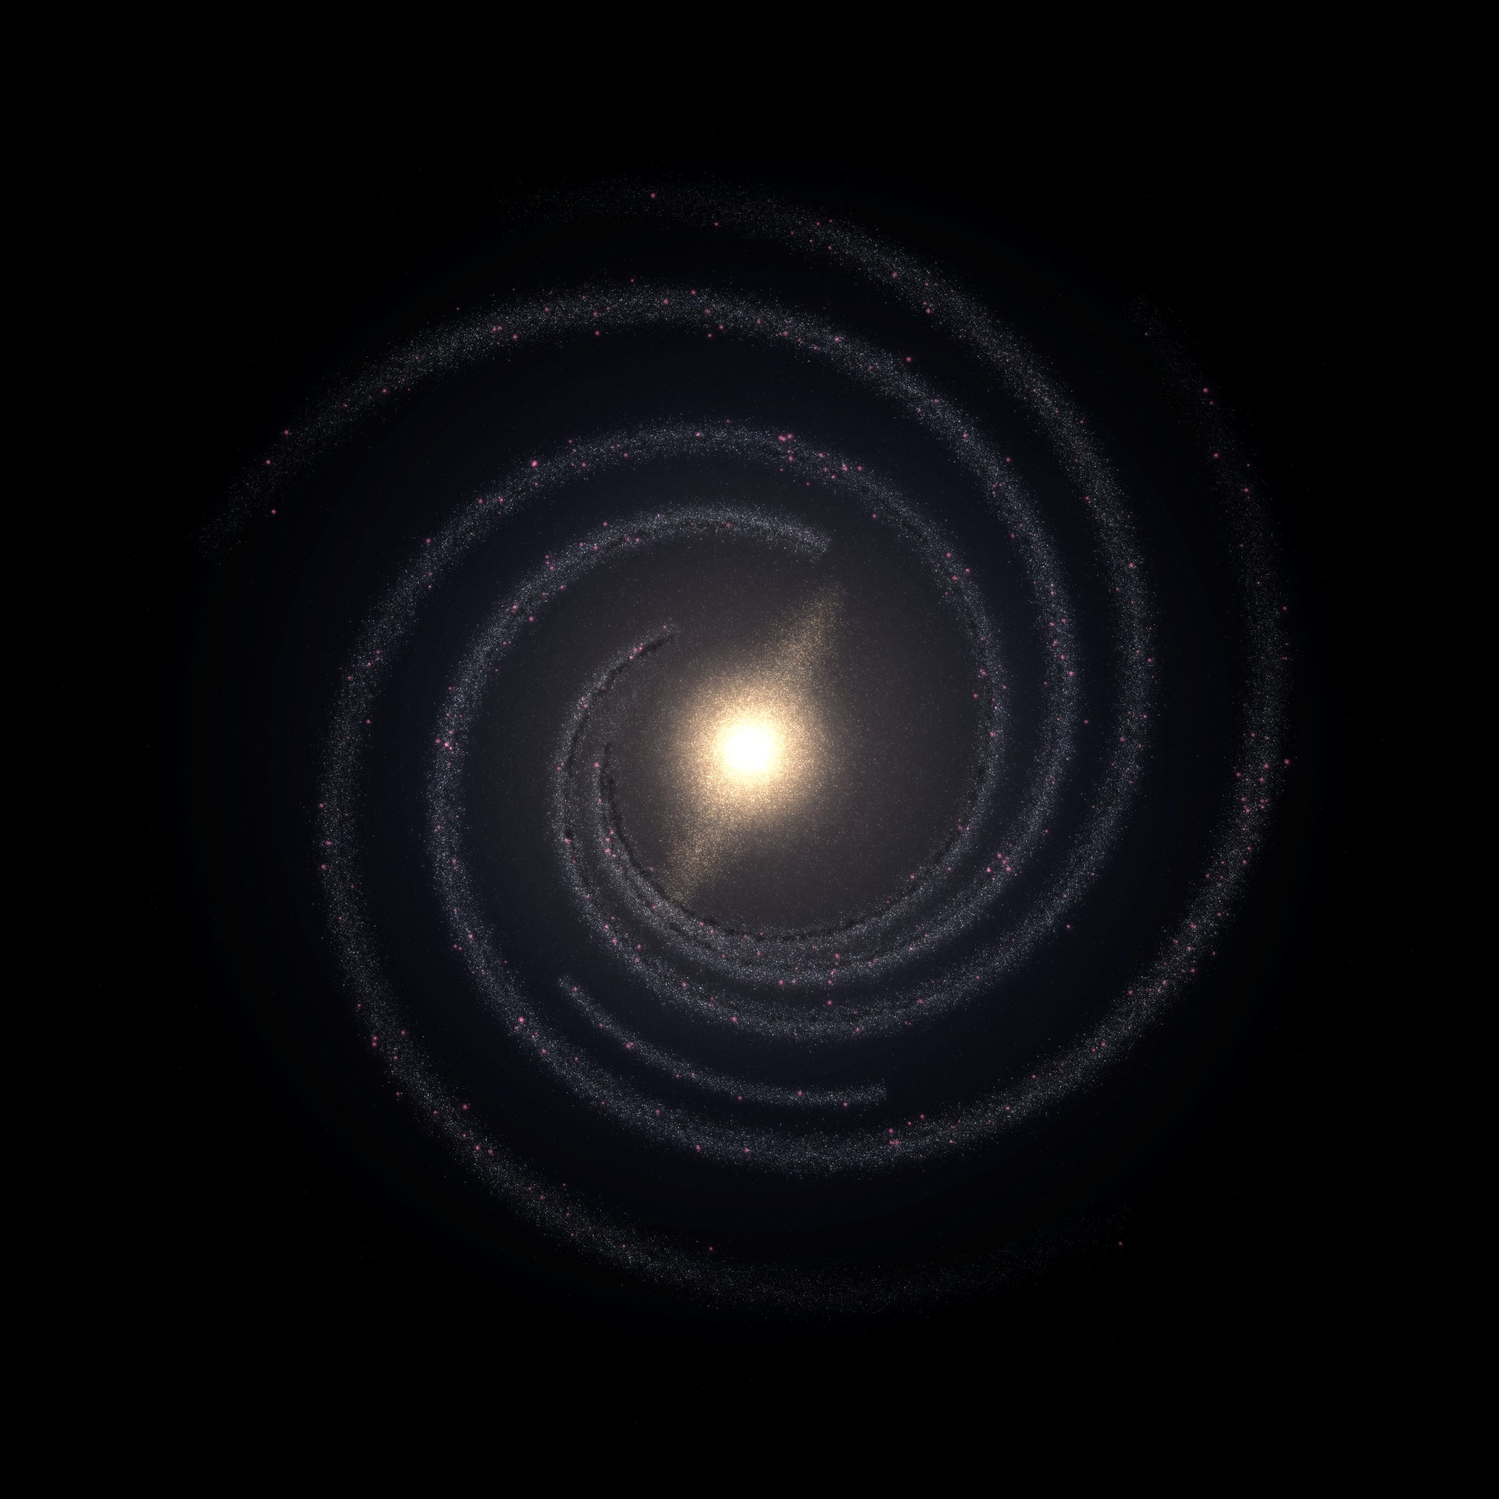
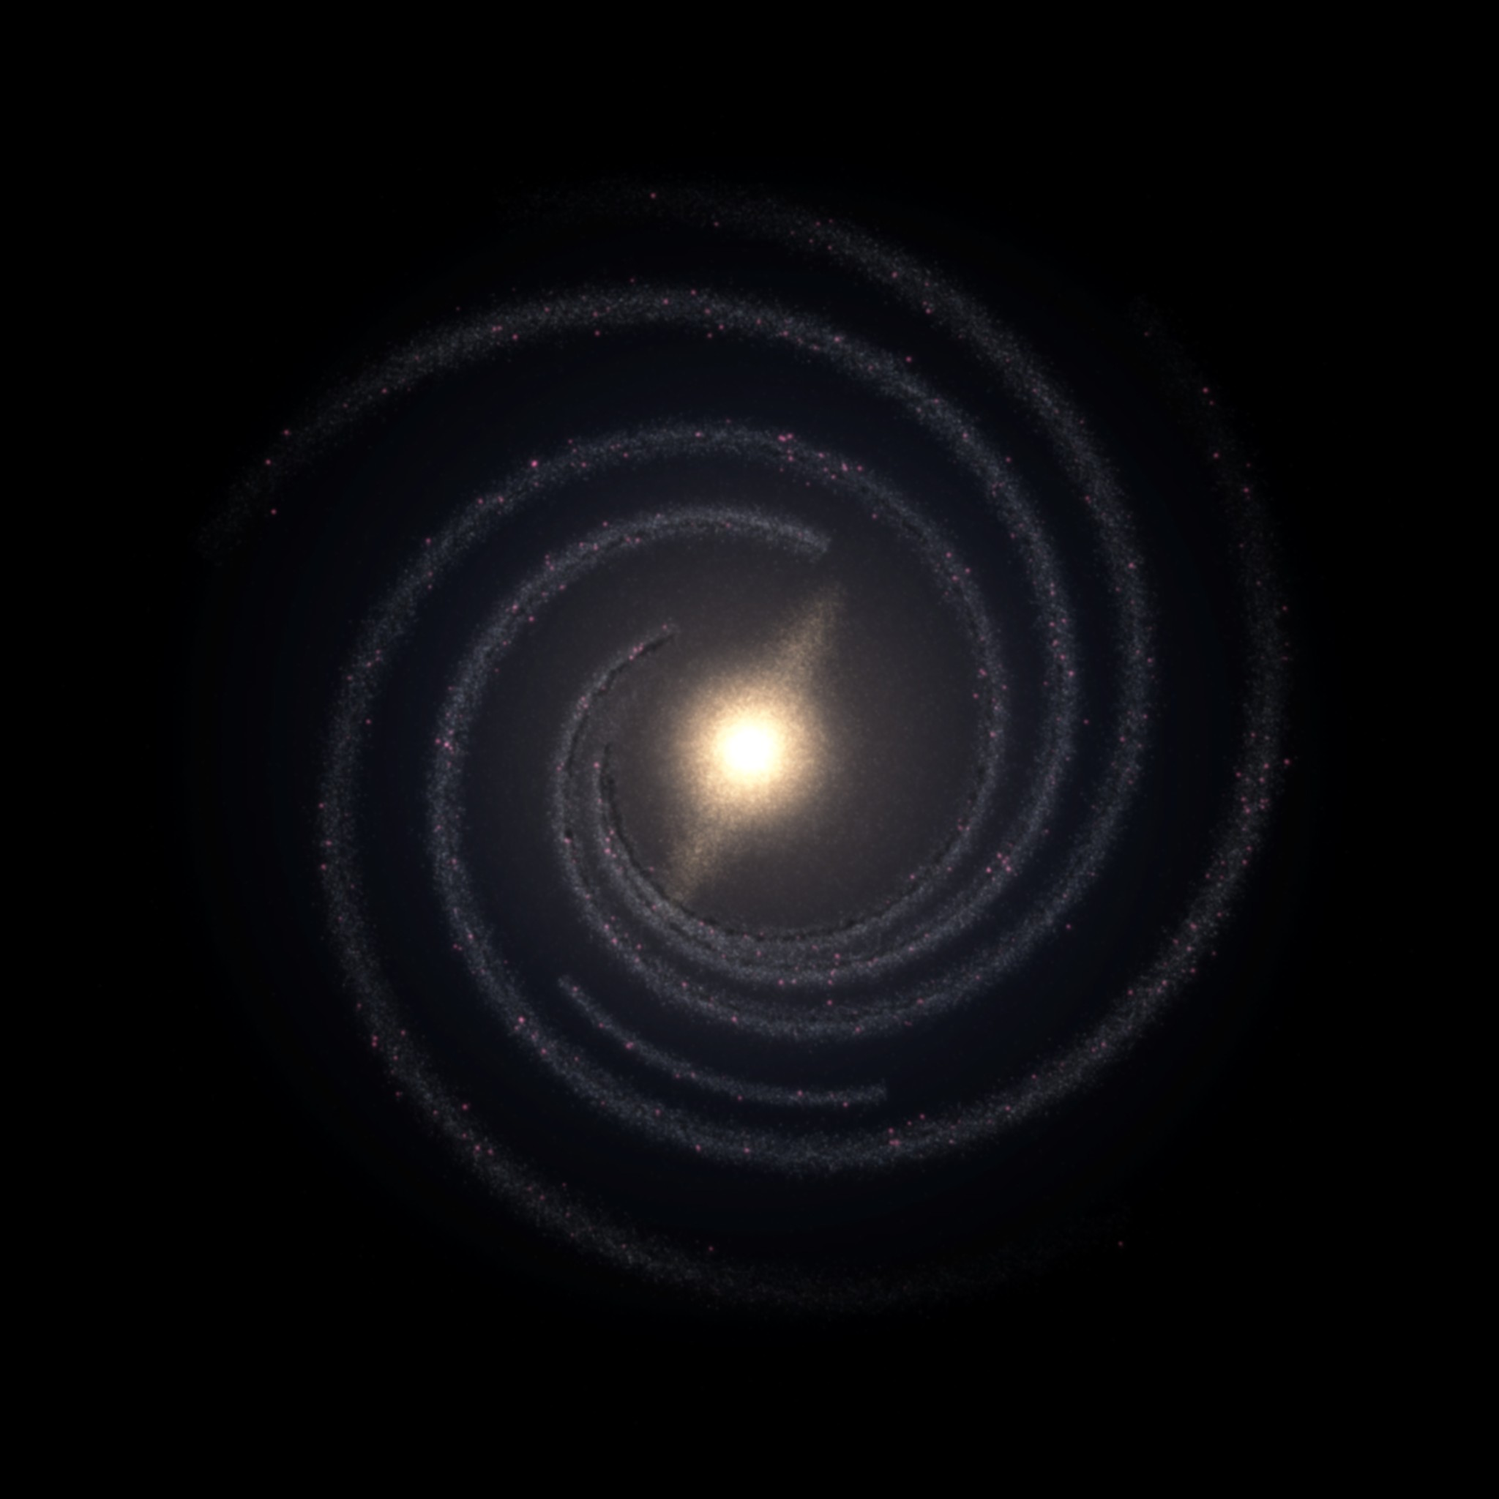
Solar System: the same 3D Milky Way (band with dust lane), no lens flattening; both views meet in perspective at 6 ly
Claude-Session: https://claude.ai/code/session_014WnyXLLNwiX3pgGtFfkb8B

diff --git a/solar-system/index.html b/solar-system/index.html
@@ -863,6 +863,113 @@ const haze = new THREE.Mesh(new THREE.PlaneGeometry(2, 2), new THREE.ShaderMater
       gl_FragColor = vec4(mix(vec3(150.0, 160.0, 220.0), vec3(175.0, 170.0, 215.0), t) / 255.0, uA * mix(0.55, 1.45, t)); }`,
   transparent: true, depthTest: false, depthWrite: false }));
 haze.frustumCulled = false; haze.renderOrder = -3; skyScene.add(haze);
+// The Milky Way as a volume: the same 3D model and face-on picture the galaxy map uses (stars in a thin and a thick disc and a bulge,
+// with a thinner layer of dust), seen from wherever the camera really is. From here it is the band across the sky, dust lane and all;
+// the galaxy map carries on with the same picture as you pull out of the disc.
+const GALAXY_FS = `// The Milky Way as a volume, ray-marched per pixel. World frame of the galaxy map: Sgr A* at the origin, the disc's true midplane at z = 0,
+// light-years. Face-on light comes from the map's picture of the disc; the vertical structure and dust follow measurements:
+//   thin disc scale height 300 pc, thick disc 900 pc at ~6% of the local density, i.e. ~16% of the surface light (Bland-Hawthorn & Gerhard 2016)
+//   boxy/peanut bulge ~500 pc thick within ~1.5 kpc of the centre (Wegg & Gerhard 2013)
+//   dust: scale height 134 pc, scale length 0.28 R0 (Drimmel & Spergel 2001); 1 magnitude of V-band extinction per kpc at the Sun,
+//   reddening with the standard extinction curve (A_B : A_V : A_R ≈ 1.32 : 1 : 0.75)
+uniform sampler2D uGal;
+uniform vec3 uCam, uRight, uUp, uFwd;
+uniform vec2 uRes;
+uniform float uTanH, uOrtho, uHalfH, uExpo, uAlpha;
+const float GW = 62000.0, ZM = 9000.0, RSUN = 26989.0;
+const float H1 = 978.0, H2 = 2935.0, HB = 1630.0, HD = 437.0, RD = 7557.0, K0 = 2.83e-4;
+vec2 slab(vec3 ro, vec3 rd) {
+  if (abs(rd.z) < 1e-7) return abs(ro.z) < ZM ? vec2(-1e12, 1e12) : vec2(1.0, -1.0);
+  float a = (-ZM - ro.z) / rd.z, b = (ZM - ro.z) / rd.z; return vec2(min(a, b), max(a, b));
+}
+vec2 cyl(vec3 ro, vec3 rd) {
+  float A = dot(rd.xy, rd.xy), B = dot(ro.xy, rd.xy), C = dot(ro.xy, ro.xy) - GW * GW;
+  if (A < 1e-12) return C < 0.0 ? vec2(-1e12, 1e12) : vec2(1.0, -1.0);
+  float D = B * B - A * C; if (D < 0.0) return vec2(1.0, -1.0);
+  float s = sqrt(D); return vec2((-B - s) / A, (-B + s) / A);
+}
+void main() {
+  vec2 p = (gl_FragCoord.xy - 0.5 * uRes) / (0.5 * uRes.y);
+  vec3 ro, rd;
+  if (uOrtho > 0.5) { rd = uFwd; ro = uCam + (uRight * p.x + uUp * p.y) * uHalfH - uFwd * 2.0e6; }
+  else { ro = uCam; rd = normalize(uFwd + (uRight * p.x + uUp * p.y) * uTanH); }
+  vec2 s1 = slab(ro, rd), s2 = cyl(ro, rd);
+  float t0 = max(max(s1.x, s2.x), 0.0), t1 = min(s1.y, s2.y);
+  if (t1 <= t0) { gl_FragColor = vec4(0.0); return; }
+  vec3 I = vec3(0.0), T = vec3(1.0);
+  float t = t0, jit = fract(sin(dot(gl_FragCoord.xy, vec2(12.9898, 78.233))) * 43758.5453);   // per-pixel offset: turns banding into fine grain
+  bool first = true;
+  for (int i = 0; i < 260; i++) {
+    if (t >= t1) break;
+    vec3 q = ro + rd * t;
+    float dt = clamp(0.16 * max(abs(q.z), 150.0) / max(abs(rd.z), 0.03), 6.0, 2000.0);
+    if (uOrtho < 0.5) dt = min(dt, max(0.1 * t, 6.0));                      // fine steps close to the camera when we're inside
+    if (first) { dt *= jit; first = false; }
+    dt = min(dt, t1 - t);
+    vec3 m = ro + rd * (t + 0.5 * dt);
+    float R = length(m.xy), az = abs(m.z);
+    float foot = max(dt * length(rd.xy), 0.0) / 60.5;                    // how many texels this step sweeps across: blur to match
+    vec3 sig = texture2D(uGal, (m.xy + GW) / (2.0 * GW), clamp(log2(max(foot, 1.0)), 0.0, 6.0)).rgb;
+    float wb = exp(-R * R / (5000.0 * 5000.0));
+    float vert = mix(0.84 * exp(-az / H1) / (2.0 * H1) + 0.16 * exp(-az / H2) / (2.0 * H2), exp(-az / HB) / (2.0 * HB), wb);
+    float k = K0 * exp(-(R - RSUN) / RD) * exp(-az / HD) * smoothstep(1500.0, 4000.0, R) + K0 * 6.0 * exp(-R / 600.0) * exp(-az / 150.0);
+    vec3 kap = k * vec3(0.75, 1.0, 1.32);
+    vec3 tr = exp(-kap * dt);
+    I += T * sig * vert * (kap.g > 1e-9 ? (1.0 - tr) / max(kap, 1e-9) : vec3(dt));   // exact for a uniform step
+    T *= tr;
+    t += dt;
+    if (max(T.r, max(T.g, T.b)) < 0.003) break;
+  }
+  vec3 col = pow(1.0 - exp(-I * uExpo), vec3(1.2));
+  gl_FragColor = vec4(col * uAlpha, max(col.r, max(col.g, col.b)) * uAlpha);
+}
+`;
+const MWV = { ready: false };
+{
+  const tex = new THREE.TextureLoader().load('../milky-way/galaxy-disc.jpg', () => { MWV.ready = true; });
+  tex.flipY = false; tex.anisotropy = 8;
+  const V3 = () => ({ value: new THREE.Vector3() });
+  MWV.mat = new THREE.ShaderMaterial({
+    uniforms: { uGal: { value: tex }, uCam: V3(), uRight: V3(), uUp: V3(), uFwd: V3(), uRes: { value: new THREE.Vector2(1, 1) }, uTanH: { value: TAN20 },
+      uOrtho: { value: 0 }, uHalfH: { value: 1 }, uExpo: { value: 1.35 }, uAlpha: { value: 1 } },
+    vertexShader: 'void main() { gl_Position = vec4(position.xy, 0.0, 1.0); }', fragmentShader: GALAXY_FS,
+    blending: THREE.NoBlending, depthTest: false, depthWrite: false });
+  // ray-marching every pixel is heavy, so the volume is drawn into a smaller picture, and only redrawn when the view changes
+  MWV.scene = new THREE.Scene(); MWV.vol = new THREE.Mesh(new THREE.PlaneGeometry(2, 2), MWV.mat); MWV.vol.frustumCulled = false; MWV.scene.add(MWV.vol);
+  MWV.rt = new THREE.WebGLRenderTarget(4, 4, { depthBuffer: false });
+  MWV.mesh = new THREE.Mesh(new THREE.PlaneGeometry(2, 2), new THREE.ShaderMaterial({ uniforms: { map: { value: MWV.rt.texture } },
+    vertexShader: 'varying vec2 vU; void main() { vU = position.xy * 0.5 + 0.5; gl_Position = vec4(position.xy, 0.0, 1.0); }',
+    fragmentShader: 'uniform sampler2D map; varying vec2 vU; void main() { gl_FragColor = texture2D(map, vU); }',
+    transparent: true, blending: THREE.CustomBlending, blendSrc: THREE.OneFactor, blendDst: THREE.OneFactor, depthTest: false, depthWrite: false }));
+  MWV.mesh.frustumCulled = false; MWV.mesh.renderOrder = -4; MWV.mesh.visible = false; skyScene.add(MWV.mesh);
+  MWV.key = ''; MWV.still = 0;
+}
+// heliocentric galactic light-years → the galaxy map's frame (Sgr A* at the origin, true midplane at z = 0)
+const R0_LY = 8275 * 3.26156, cTHm = Math.cos(MW_TH), sTHm = Math.sin(MW_TH), _g3 = new THREE.Vector3(), _v3 = new THREE.Vector3(), _q3 = new THREE.Quaternion();
+const sceneToGal = (v, out) => out.set(v.dot(GXs), v.dot(GYs), v.dot(GZs));
+const galToMap = (gv, out, point) => { const x0 = gv.x - (point ? R0_LY : 0), xg = x0 * cTHm + gv.z * sTHm, zg = -x0 * sTHm + gv.z * cTHm; return out.set(-gv.y, -xg, zg); };
+function updateMWV() {
+  MWV.mesh.visible = MWV.ready && opts.milky; milky.visible = opts.milky && !MWV.ready;
+  if (!MWV.mesh.visible) return;
+  const u = MWV.mat.uniforms; _q3.copy(skyRoot.quaternion).invert();
+  galToMap(sceneToGal(_v3.copy(skyCam.position).applyQuaternion(_q3), _g3), u.uCam.value, true);
+  galToMap(sceneToGal(_v3.set(1, 0, 0).applyQuaternion(skyCam.quaternion).applyQuaternion(_q3), _g3), u.uRight.value, false);
+  galToMap(sceneToGal(_v3.set(0, 1, 0).applyQuaternion(skyCam.quaternion).applyQuaternion(_q3), _g3), u.uUp.value, false);
+  galToMap(sceneToGal(_v3.set(0, 0, -1).applyQuaternion(skyCam.quaternion).applyQuaternion(_q3), _g3), u.uFwd.value, false);
+  u.uTanH.value = Math.tan(skyCam.fov * DEG / 2);
+  // redraw when the view has changed: coarse while it's moving, finer once it settles
+  const c = u.uCam.value, f = u.uFwd.value, up = u.uUp.value;
+  const key = [c.x, c.y, c.z].map(v => v.toFixed(2)).join() + [f.x, f.y, f.z, up.x, up.y, up.z].map(v => v.toFixed(4)).join();
+  const db = renderer.getDrawingBufferSize(_v2b), moving = key !== MWV.key;
+  MWV.still = moving ? 0 : MWV.still + 1;
+  const sc = moving ? 0.34 : 0.62, w = Math.max(2, Math.round(db.x * sc)), h = Math.max(2, Math.round(db.y * sc));
+  if (moving || (MWV.still === 6 && MWV.rt.width !== w) || MWV.rt.width === 4) {
+    if (MWV.rt.width !== w || MWV.rt.height !== h) MWV.rt.setSize(w, h);
+    u.uRes.value.set(w, h); MWV.key = key;
+    renderer.setRenderTarget(MWV.rt); renderer.setClearColor(0x000000, 0); renderer.clear(); renderer.render(MWV.scene, skyCam); renderer.setRenderTarget(null); renderer.setClearColor(0x000000, 1);
+  }
+}
+const _v2b = new THREE.Vector2();
 // the 12 zodiac constellations: stick figures (after d3-celestial) joined between those same stars, each at its real distance
 const ZODIAC = [{"n":"Aries","l":[-0.73116,0.35664,-0.58156],"d":164.1,"p":[[930,9416,622,616]]},{"n":"Taurus","l":[-0.93615,-0.04719,-0.34842],"d":150.5,"p":[[2056,9422,1540,1466,1492,1538,1934],[1466,1356,1145,1364],[1145,1137,1212]]},{"n":"Gemini","l":[-0.94682,-0.23377,0.2211],"d":109.3,"p":[[2351,2412,2592,2811,9439,9441,3018,2895,2768,2545,2601],[2895,2880]]},{"n":"Cancer","l":[-0.76284,-0.36592,0.53308],"d":178.0,"p":[[3681,3574,3565,3592],[3574,3356]]},{"n":"Leo","l":[-0.34967,-0.43262,0.83101],"d":130.1,"p":[[9449,4109,4194,4533,9454,4534,9449],[4194,4171,4042,4002]]},{"n":"Virgo","l":[0.4109,-0.34289,0.84474],"d":134.3,"p":[[4711,4735,4893,9460,5187,9464,5562,5723],[5150,5124,9460],[5187,5327,5491,5744]]},{"n":"Libra","l":[0.78876,-0.19645,0.58247],"d":185.1,"p":[[5853,5776,5935,6047,6061,6072],[5776,6047]]},{"n":"Scorpius","l":[0.98124,-0.14872,0.12266],"d":491.2,"p":[[6202,6212,6246],[6212,6359,9475,6440,6525,6537,6557,6681,6873,6936,6907,6846]]},{"n":"Sagittarius","l":[0.95321,0.14202,-0.26688],"d":227.8,"p":[[7141,7194,7162,7220,9482],[7645,7653,7503,7351,7220],[7879,7915,7884,7740,7665,7589,9486,7351,7162,7059,7194,7503,7534,9486,7516,7556,7605,7637,7638],[7516,7458,7420,9486]]},{"n":"Capricornus","l":[0.69209,0.40061,-0.60044],"d":201.2,"p":[[8039,8067,8114,8236,8281,8498,8630,8580,8467,8373,8039]]},{"n":"Aquarius","l":[0.40585,0.4816,-0.77676],"d":257.4,"p":[[8251,8287,8526,8727,8835,8877,8916,9026,9182,9135],[8526,8735],[8727,8811],[8877,8857],[9217,9182,9314]]},{"n":"Pisces","l":[-0.27318,0.60397,-0.74873],"d":195.7,"p":[[416,406,437,416,404,496,579,665,617,550,491,415,348,271,9403,9306,9243,9201,9176,9234,9318,9339,9306],[9176,9100]]}];
 const zodiac = new THREE.Group(); zodiac.visible = false; skyRoot.add(zodiac);
@@ -1783,7 +1890,7 @@ function frame(t) {
   const camD = camera.position.distanceTo(controls.target), pxs = innerHeight / 2 / Math.tan(camera.fov * DEG / 2), p = new THREE.Vector3();
   // past the Oort cloud the lens narrows while the camera backs away, so the picture slides from a view of the sky into the galaxy map's straight-down projection
   const spanLy = 2 * camD * TAN20 * Math.min(1, camera.aspect) / LY, ls = Math.log(Math.max(spanLy, 1e-30));
-  deep.p = sstep(ls, Math.log(0.35), Math.log(2.8)); deep.q = EMBED ? sstep(ls, Math.log(3.2), Math.log(5.8)) : 0;
+  deep.p = 0; deep.q = EMBED ? sstep(ls, Math.log(3.2), Math.log(5.8)) : 0;
   deep.fov = deep.p > 0 ? 2 * Math.atan(Math.exp(Math.log(TAN20) * (1 - deep.p) + Math.log(TAN_FLAT) * deep.p)) / DEG : 40;
   const fk = Math.tan(deep.fov * DEG / 2) / TAN20;
 
@@ -1829,8 +1936,9 @@ function frame(t) {
   skyCam.quaternion.copy(camera.quaternion); skyCam.fov = camera.fov; skyCam.updateProjectionMatrix();
   relOf(SUN, p); skyCam.position.copy(camera.position).sub(p).divideScalar(LY);
   bandRoot.quaternion.copy(skyRoot.quaternion); bandCam.quaternion.copy(camera.quaternion); bandCam.aspect = camera.aspect; bandCam.updateProjectionMatrix();
-  starMat.uniforms.uMix.value = deep.p; milky.userData.glow.material.opacity = 0.38 * (1 - 0.55 * deep.p); milky.userData.pts.material.opacity = 0.9 * (1 - 0.55 * deep.p);
-  { const a = opts.milky ? 0.09 * Math.max(deep.p, 0.6 * deep.t) : 0; haze.visible = a > 0.002;
+  starMat.uniforms.uMix.value = sstep(ls, Math.log(1.2), Math.log(5)); milky.userData.glow.material.opacity = 0.38 * (1 - 0.55 * deep.p); milky.userData.pts.material.opacity = 0.9 * (1 - 0.55 * deep.p);
+  updateMWV();
+  { const a = opts.milky && !MWV.ready ? 0.09 * Math.max(deep.p, 0.6 * deep.t) : 0; haze.visible = a > 0.002;
     if (haze.visible) {   // brighter toward the galactic centre: its direction on screen (device pixels, y up)
       skyCam.updateMatrixWorld(); const g = GC_DIR.clone().multiplyScalar(GC_LY).applyQuaternion(skyRoot.quaternion).project(skyCam);
       let dx = g.x * innerWidth, dy = g.y * innerHeight; if (g.z > 1) { dx = -dx; dy = -dy; } const L = Math.hypot(dx, dy) || 1;
@@ -1887,7 +1995,7 @@ function init() {
   const h = location.hash.slice(1); if (byKey(h) && byKey(h).isPlanet) setTimeout(() => flyTo(byKey(h)), 400);
   requestAnimationFrame(frame);
   setTimeout(earthHiRes, 400);
-  if (/[?&]debug=1/.test(location.search)) window.__ss = { camera, controls, deep, flyTo, goFar, enterFrom, byKey, preset, STARPOS, ZODIAC, scene, SUN, EARTH, relOf, galToScene, MW_AZ, Q_GAL, MW_Y, MW_Z, LY, AUS, screenOfGal(x, y, z) { const c = camera.clone(), fk = Math.tan(deep.fov * DEG / 2) / TAN20; if (deep.p > 0) c.position.sub(controls.target).multiplyScalar(1 / fk).add(controls.target); c.fov = deep.fov; c.far = 1e15; c.updateProjectionMatrix(); c.updateMatrixWorld(); const v = galToScene(x, y, z).multiplyScalar(LY).applyQuaternion(scene.quaternion).add(relOf(SUN)).project(c); return [(v.x + 1) / 2 * innerWidth, (1 - v.y) / 2 * innerHeight]; }, get focus() { return focus; }, get simMs() { return simMs; } };
+  if (/[?&]debug=1/.test(location.search)) window.__ss = { MWV, camera, controls, deep, flyTo, goFar, enterFrom, byKey, preset, STARPOS, ZODIAC, scene, SUN, EARTH, relOf, galToScene, MW_AZ, Q_GAL, MW_Y, MW_Z, LY, AUS, screenOfGal(x, y, z) { const c = camera.clone(), fk = Math.tan(deep.fov * DEG / 2) / TAN20; if (deep.p > 0) c.position.sub(controls.target).multiplyScalar(1 / fk).add(controls.target); c.fov = deep.fov; c.far = 1e15; c.updateProjectionMatrix(); c.updateMatrixWorld(); const v = galToScene(x, y, z).multiplyScalar(LY).applyQuaternion(scene.quaternion).add(relOf(SUN)).project(c); return [(v.x + 1) / 2 * innerWidth, (1 - v.y) / 2 * innerHeight]; }, get focus() { return focus; }, get simMs() { return simMs; } };
   if (EMBED) { parent.postMessage({ src: 'uas-ss', ready: true }, '*'); document.querySelectorAll('a.homelink').forEach(a => a.target = '_top'); document.body.classList.add('embed'); }
   setTimeout(() => { const l = document.getElementById('loading'); l.style.opacity = 0; setTimeout(() => l.remove(), 700); }, 200);
 }

diff --git a/milky-way/index.html b/milky-way/index.html
@@ -122,7 +122,7 @@
 <div id="bhnote"><b>Sagittarius A*</b> · 4.3 million Suns · every pixel's light traced back through curved spacetime (non-spinning hole) · the gas is hot, thin and puffy, brighter on the side swinging toward us · false colour, after the Event Horizon Telescope · time ×120: the bright flare circles in about 50 minutes</div>
 <script type="x-shader/x-fragment" id="galaxy-fs">// The Milky Way as a volume, ray-marched per pixel. World frame of the galaxy map: Sgr A* at the origin, the disc's true midplane at z = 0,
 // light-years. Face-on light comes from the map's picture of the disc; the vertical structure and dust follow measurements:
-//   thin disc scale height 300 pc, thick disc 900 pc with ~25% of the surface light (Bland-Hawthorn & Gerhard 2016)
+//   thin disc scale height 300 pc, thick disc 900 pc at ~6% of the local density, i.e. ~16% of the surface light (Bland-Hawthorn & Gerhard 2016)
 //   boxy/peanut bulge ~500 pc thick within ~1.5 kpc of the centre (Wegg & Gerhard 2013)
 //   dust: scale height 134 pc, scale length 0.28 R0 (Drimmel & Spergel 2001); 1 magnitude of V-band extinction per kpc at the Sun,
 //   reddening with the standard extinction curve (A_B : A_V : A_R ≈ 1.32 : 1 : 0.75)
@@ -165,7 +165,7 @@ void main() {
     float foot = max(dt * length(rd.xy), 0.0) / 60.5;                    // how many texels this step sweeps across: blur to match
     vec3 sig = texture2D(uGal, (m.xy + GW) / (2.0 * GW), clamp(log2(max(foot, 1.0)), 0.0, 6.0)).rgb;
     float wb = exp(-R * R / (5000.0 * 5000.0));
-    float vert = mix(0.75 * exp(-az / H1) / (2.0 * H1) + 0.25 * exp(-az / H2) / (2.0 * H2), exp(-az / HB) / (2.0 * HB), wb);
+    float vert = mix(0.84 * exp(-az / H1) / (2.0 * H1) + 0.16 * exp(-az / H2) / (2.0 * H2), exp(-az / HB) / (2.0 * HB), wb);
     float k = K0 * exp(-(R - RSUN) / RD) * exp(-az / HD) * smoothstep(1500.0, 4000.0, R) + K0 * 6.0 * exp(-R / 600.0) * exp(-az / 150.0);
     vec3 kap = k * vec3(0.75, 1.0, 1.32);
     vec3 tr = exp(-kap * dt);
@@ -174,7 +174,7 @@ void main() {
     t += dt;
     if (max(T.r, max(T.g, T.b)) < 0.003) break;
   }
-  vec3 col = 1.0 - exp(-I * uExpo);
+  vec3 col = pow(1.0 - exp(-I * uExpo), vec3(1.2));
   gl_FragColor = vec4(col * uAlpha, max(col.r, max(col.g, col.b)) * uAlpha);
 }
 </script>

diff --git a/tools/galaxy3d/build/patch_ss.py b/tools/galaxy3d/build/patch_ss.py
@@ -1,0 +1,46 @@
+P='solar-system/index.html'; s=open(P,encoding='utf-8').read()
+g=open('tools/galaxy3d/galaxy.glsl',encoding='utf-8').read()
+def rep(old,new):
+    global s
+    assert s.count(old)==1,(s.count(old),old[:80]); s=s.replace(old,new)
+# 1. no more lens flattening: both views share a 40° lens where they meet
+rep("  deep.p = sstep(ls, Math.log(0.35), Math.log(2.8)); deep.q","  deep.p = 0; deep.q")
+# 2. the volume
+rep("haze.frustumCulled = false; haze.renderOrder = -3; skyScene.add(haze);",
+"""haze.frustumCulled = false; haze.renderOrder = -3; skyScene.add(haze);
+// The Milky Way as a volume: the same 3D model and face-on picture the galaxy map uses (stars in a thin and a thick disc and a bulge,
+// with a thinner layer of dust), seen from wherever the camera really is. From here it is the band across the sky, dust lane and all;
+// the galaxy map carries on with the same picture as you pull out of the disc.
+const GALAXY_FS = `"""+g+"""`;
+const MWV = { ready: false };
+{
+  const tex = new THREE.TextureLoader().load('../milky-way/galaxy-disc.jpg', () => { MWV.ready = true; });
+  tex.flipY = false; tex.anisotropy = 8;
+  const V3 = () => ({ value: new THREE.Vector3() });
+  MWV.mat = new THREE.ShaderMaterial({
+    uniforms: { uGal: { value: tex }, uCam: V3(), uRight: V3(), uUp: V3(), uFwd: V3(), uRes: { value: new THREE.Vector2(1, 1) }, uTanH: { value: TAN20 },
+      uOrtho: { value: 0 }, uHalfH: { value: 1 }, uExpo: { value: 1.35 }, uAlpha: { value: 1 } },
+    vertexShader: 'void main() { gl_Position = vec4(position.xy, 0.0, 1.0); }', fragmentShader: GALAXY_FS,
+    transparent: true, blending: THREE.AdditiveBlending, depthTest: false, depthWrite: false });
+  MWV.mesh = new THREE.Mesh(new THREE.PlaneGeometry(2, 2), MWV.mat); MWV.mesh.frustumCulled = false; MWV.mesh.renderOrder = -4; MWV.mesh.visible = false; skyScene.add(MWV.mesh);
+}
+// heliocentric galactic light-years → the galaxy map's frame (Sgr A* at the origin, true midplane at z = 0)
+const R0_LY = 8275 * 3.26156, cTHm = Math.cos(MW_TH), sTHm = Math.sin(MW_TH), _g3 = new THREE.Vector3(), _v3 = new THREE.Vector3(), _q3 = new THREE.Quaternion();
+const sceneToGal = (v, out) => out.set(v.dot(GXs), v.dot(GYs), v.dot(GZs));
+const galToMap = (gv, out, point) => { const x0 = gv.x - (point ? R0_LY : 0), xg = x0 * cTHm + gv.z * sTHm, zg = -x0 * sTHm + gv.z * cTHm; return out.set(-gv.y, -xg, zg); };
+function updateMWV() {
+  MWV.mesh.visible = MWV.ready && opts.milky; milky.visible = opts.milky && !MWV.ready;
+  if (!MWV.mesh.visible) return;
+  const u = MWV.mat.uniforms; _q3.copy(skyRoot.quaternion).invert();
+  galToMap(sceneToGal(_v3.copy(skyCam.position).applyQuaternion(_q3), _g3), u.uCam.value, true);
+  galToMap(sceneToGal(_v3.set(1, 0, 0).applyQuaternion(skyCam.quaternion).applyQuaternion(_q3), _g3), u.uRight.value, false);
+  galToMap(sceneToGal(_v3.set(0, 1, 0).applyQuaternion(skyCam.quaternion).applyQuaternion(_q3), _g3), u.uUp.value, false);
+  galToMap(sceneToGal(_v3.set(0, 0, -1).applyQuaternion(skyCam.quaternion).applyQuaternion(_q3), _g3), u.uFwd.value, false);
+  renderer.getDrawingBufferSize(u.uRes.value); u.uTanH.value = Math.tan(skyCam.fov * DEG / 2);
+}""")
+# 3. star style: blend toward the map's dots as the hand-over nears; band and old haze give way to the volume
+rep("  starMat.uniforms.uMix.value = deep.p; milky.userData.glow.material.opacity","  starMat.uniforms.uMix.value = sstep(ls, Math.log(1.2), Math.log(5)); milky.userData.glow.material.opacity")
+rep("  { const a = opts.milky ? 0.09 * Math.max(deep.p, 0.6 * deep.t) : 0; haze.visible = a > 0.002;",
+    "  updateMWV();\n  { const a = opts.milky && !MWV.ready ? 0.09 * Math.max(deep.p, 0.6 * deep.t) : 0; haze.visible = a > 0.002;")
+open(P,'w',encoding='utf-8').write(s)
+print('ok')
